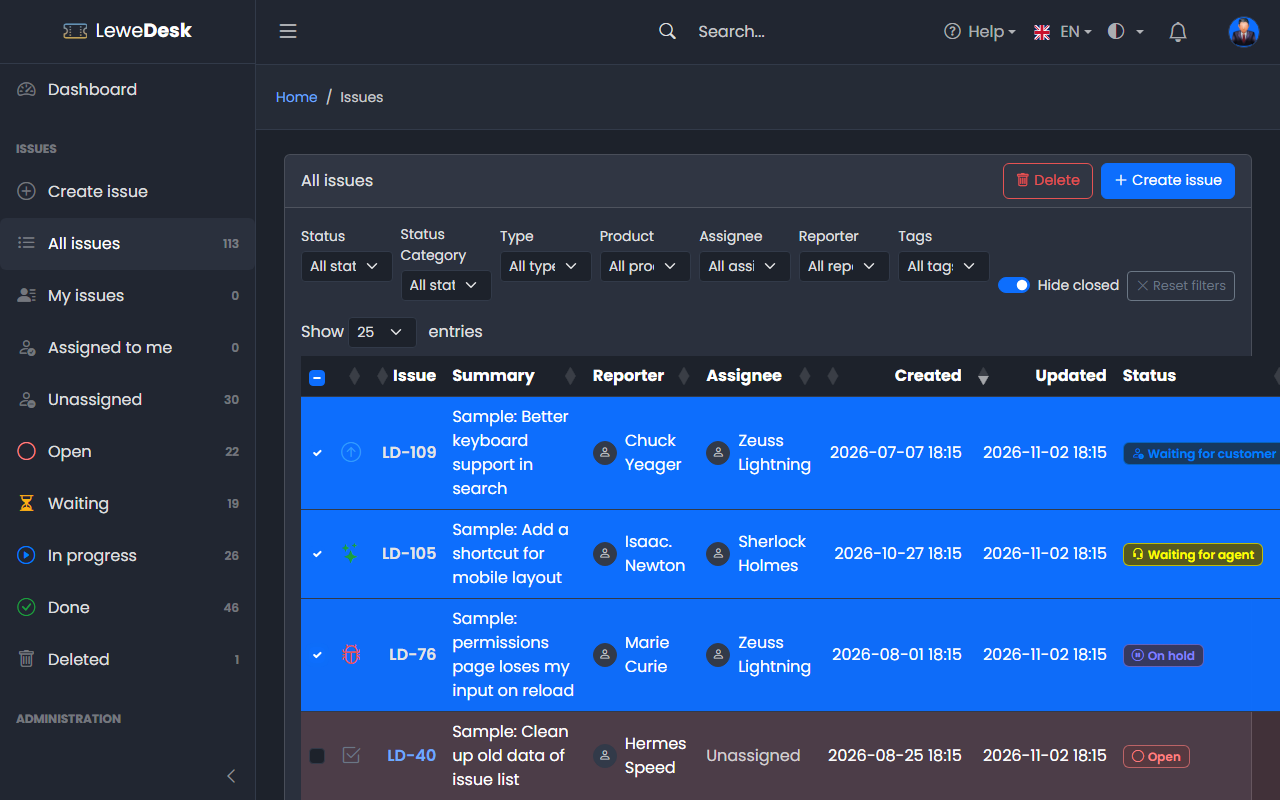
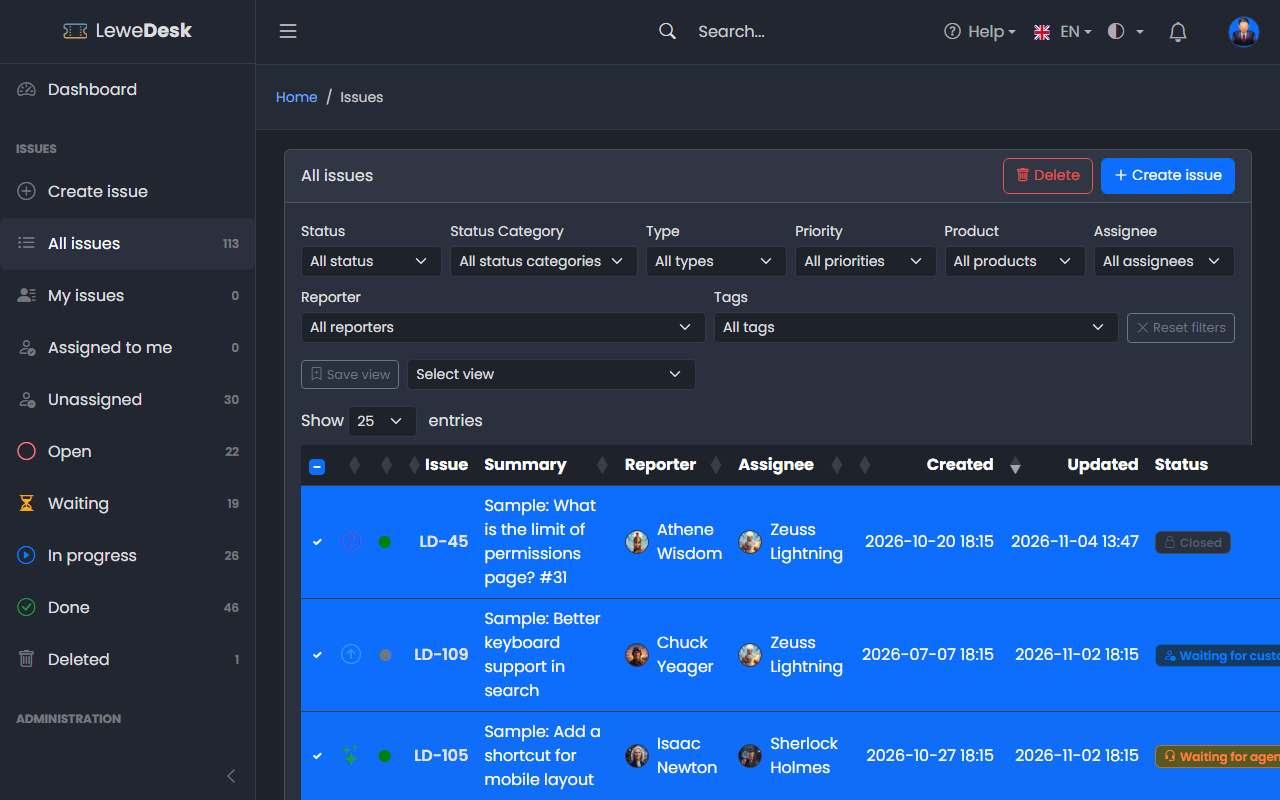
Add priorities feature

diff --git a/user-guide/issues/list-issues.md b/user-guide/issues/list-issues.md
@@ -10,6 +10,7 @@ The issue list shows the issues you may see. Click an issue key to open the issu
 | -------- | ---------------------------------------------------------------- |
 | (checkbox) | Selects the issue for [bulk actions](#delete-or-restore-several-issues) (only for users who may delete issues) |
 | (icon)   | Icon of the issue type                                           |
+| (icon)   | Priority of the issue as a colored icon. Move the mouse over it to see the name. Click the column header to sort by priority (Critical first). |
 | Issue    | The issue key, e.g. LD-123                                     |
 | Summary  | Title of the issue                                               |
 | Reporter | Who created the issue                                            |
@@ -40,7 +41,7 @@ The sidebar offers quick views. The number shows how many issues the view holds.
 
 ## Filters
 
-Above the table you can narrow the list down by **Status**, **Status category**, **Type**, **Product**, **Assignee**, **Reporter** and **Tags**. Filters combine with the quick view. **Show entries** sets the page size.
+Above the table you can narrow the list down by **Status**, **Status category**, **Type**, **Priority**, **Product**, **Assignee**, **Reporter** and **Tags**. Filters combine with the quick view. **Show entries** sets the page size.
 
 The **Hide closed** switch is on by default and leaves out the issues with the status _Closed_, so that the list shows what still needs attention. Turn it off to see them as well. It has no effect when you choose a status in the **Status** filter.
 
@@ -56,14 +57,14 @@ Under the filters you find the **Save view** button and the **Select view** list
 
 ### Save a view
 
-1. Set the filters you want (**Status**, **Status category**, **Type**, **Product**, **Assignee**, **Reporter**, **Tags**).
+1. Set the filters you want (**Status**, **Status category**, **Type**, **Priority**, **Product**, **Assignee**, **Reporter**, **Tags**).
 2. Click **Save view**.
 3. Enter a **Name** (up to 100 characters). Switch on **Share with all registered users** if other users should be able to use the view as well. A view is private by default.
 4. Click **Save**.
 
 <figure><img src="../../.gitbook/assets/custom-view-save.png" alt=""><figcaption></figcaption></figure>
 
-A view stores these seven filters only. The quick view, the search term, the sort order and the page size are not part of it. You may save a view without any filter. It then shows all issues.
+A view stores these eight filters only. The quick view, the search term, the sort order and the page size are not part of it. You may save a view without any filter. It then shows all issues.
 
 If you already have a view with the same name (upper and lower case do not matter), LeweDesk asks whether you want to **overwrite** it with the current filters.
 

diff --git a/administration/issues/priorities.md b/administration/issues/priorities.md
@@ -1,0 +1,34 @@
+# Priorities
+
+<figure><img src="../../.gitbook/assets/priorities.png" alt=""><figcaption></figcaption></figure>
+
+A priority says how urgent an issue is. Every issue has exactly one priority. New issues start with _Normal_ (also the issues that are created by [email](../system/email-to-ticket.md)), and the support team can change it. Requires the permission `manage_priorities`.
+
+## System priorities
+
+| Name     | Description                                          |
+| -------- | ---------------------------------------------------- |
+| Critical | The issue blocks work and needs immediate attention  |
+| High     | The issue is important and should be handled soon    |
+| Normal   | The default priority of an issue                     |
+| Low      | The issue can wait                                   |
+
+All four are system records. They cannot be deleted, deactivated or renamed, but you can change their description, icon and colors. You can add your own priorities next to them.
+
+{% hint style="info" %}
+The issue list shows the **icon** of the priority in its color, not the name. Move the mouse over the icon to see the name. Choose the colors so that the priorities are easy to tell apart.
+{% endhint %}
+
+## Buttons
+
+| Button | Function                                                                                                    |
+| ------ | ----------------------------------------------------------------------------------------------------------- |
+| Add    | Opens the form to create a new priority                                                                     |
+| Edit   | Opens the Edit page for the selected priority                                                               |
+| Delete | Deletes the selected priorities. System priorities cannot be deleted. If issues use it, you select a replacement. |
+
+## Add and Edit Priority
+
+<figure><img src="../../.gitbook/assets/priority-edit.png" alt=""><figcaption></figcaption></figure>
+
+See [common fields](README.md#common-fields).

diff --git a/administration/issues/README.md b/administration/issues/README.md
@@ -6,6 +6,7 @@ These pages maintain the lists that structure your issues.
 | --------------------------------------- | --------------------------------------------------------------------------- |
 | [Custom Views](custom-views.md)         | Saved filter combinations of the issue list of all users                    |
 | [Issue Types](issue-types.md)           | What kind of issue it is (Bug, Feature, Question, ...)                      |
+| [Priorities](priorities.md)             | How urgent an issue is (Critical, High, Normal, Low)                        |
 | [Products](products.md)                 | The product an issue is about                                               |
 | [Status](status.md)                     | Where an issue is in its life                                               |
 | [Status Categories](status-categories.md) | Groups of status that drive the quick views                               |
@@ -14,7 +15,7 @@ These pages maintain the lists that structure your issues.
 
 ## System records
 
-Issue types, status, status categories and resolutions come with **system records** that the issue workflow depends on. A system record
+Issue types, status, status categories, resolutions and priorities come with **system records** that the issue workflow depends on. A system record
 
 * cannot be deleted or deactivated
 * has a locked name (the name is translated into the user's language)
@@ -39,4 +40,4 @@ Most of these forms share the following fields:
 
 ## Deleting records in use
 
-When you delete an issue type, status or resolution that issues still use, LeweDesk asks you to select a **replacement**. All affected issues get the replacement. When you delete a product or a tag, it is simply removed from the issues.
+When you delete an issue type, status, resolution or priority that issues still use, LeweDesk asks you to select a **replacement**. All affected issues get the replacement. When you delete a product or a tag, it is simply removed from the issues.

diff --git a/user-guide/issues/create-issue.md b/user-guide/issues/create-issue.md
@@ -9,6 +9,7 @@ Click **Create issue** in the sidebar. You need to be logged in.
 | Field       | Description                                                                                                                 |
 | ----------- | --------------------------------------------------------------------------------------------------------------------------- |
 | Type        | What kind of issue is it? Required.                                                                                         |
+| Priority    | How urgent is it? _Normal_ is preselected. The choices are _Critical_, _High_, _Normal_ and _Low_ (and any priorities your administrator added). |
 | Summary     | A short title in one line (up to 200 characters). Required.                                                                 |
 | Description | Describe the issue as precisely as you can: what happened, what did you expect, and how can we reproduce it? Required. Supports [Markdown](../markdown.md) and pasted images. |
 | Tags        | Optional. Type to search the existing tags. A tag that does not exist yet is created after you confirm.                    |

diff --git a/user-guide/issues/README.md b/user-guide/issues/README.md
@@ -11,6 +11,7 @@ Every issue has a key made of a prefix and a number, for example **LD-123**. The
 | Property    | Description                                                                                                 |
 | ----------- | ----------------------------------------------------------------------------------------------------------- |
 | Type        | Kind of issue, e.g. Bug or Question                                                                         |
+| Priority    | How urgent the issue is: Critical, High, Normal (default) or Low                                            |
 | Status      | Where the issue is in its life, e.g. Open or Resolved                                                       |
 | Resolution  | Why the issue is done. Empty until the issue is resolved.                                                   |
 | Summary     | One-line title                                                                                              |

diff --git a/administration/issues/custom-views.md b/administration/issues/custom-views.md
@@ -17,7 +17,7 @@ Custom views are saved filter combinations of the issue list (see [List Issues](
 
 | Button | Function                                                                                                  |
 | ------ | --------------------------------------------------------------------------------------------------------- |
-| Edit   | Opens the dialog with the name, the visibility and the seven filters. The owner of the view does not change. |
+| Edit   | Opens the dialog with the name, the visibility and the eight filters. The owner of the view does not change. |
 | Delete | Deletes the view after a confirmation                                                                     |
 
 If a filter value of the view does not exist anymore, the dialog leaves it out. The view is repaired when you click **Save**. Note that the assignee and reporter lists only contain users of issues you may see.

diff --git a/user-guide/issues/edit-issue.md b/user-guide/issues/edit-issue.md
@@ -9,6 +9,7 @@ The Edit page is for the support team (permission `edit_issue`). Open it with **
 | Field       | Description                                                                                   |
 | ----------- | --------------------------------------------------------------------------------------------- |
 | Type        | Kind of issue                                                                                 |
+| Priority    | How urgent the issue is. Required.                                                            |
 | Status      | The status can be set freely. A status of the category _Done_ needs a resolution.             |
 | Resolution  | Why the issue is done. Required for a status of the category _Done_.                          |
 | Assignee    | Only users with the role _Agent_ can be assigned                                              |

diff --git a/administration/system/permissions.md b/administration/system/permissions.md
@@ -55,6 +55,7 @@ A permission allows one specific thing. Each permission is granted to roles and/
 | `manage_status`            | Administrator | Manage status                                |
 | `manage_status_categories` | Administrator | Edit the status categories                   |
 | `manage_resolutions`       | Administrator | Manage resolutions                           |
+| `manage_priorities`        | Administrator | Manage priorities                            |
 | `manage_products`          | Administrator | Manage products                              |
 | `manage_tags`              | Administrator | Edit and delete tags                         |
 | `manage_custom_views`      | Administrator | Open the [Custom Views](../issues/custom-views.md) page and edit or delete the custom views of all users. Users manage their own views without a permission. |

diff --git a/user-guide/profile.md b/user-guide/profile.md
@@ -44,7 +44,7 @@ Lists the [custom views](issues/list-issues.md#custom-views) you saved in the is
 
 | Button | Function                                                                                              |
 | ------ | ----------------------------------------------------------------------------------------------------- |
-| Edit   | Opens a dialog with the name, the **Share with all registered users** switch and the seven filters     |
+| Edit   | Opens a dialog with the name, the **Share with all registered users** switch and the eight filters     |
 | Delete | Deletes the view after a confirmation. It disappears for all users it was shared with.                |
 
 <figure><img src="../.gitbook/assets/custom-view-edit.png" alt=""><figcaption></figcaption></figure>

diff --git a/user-guide/issues/issue-detail.md b/user-guide/issues/issue-detail.md
@@ -28,7 +28,7 @@ A collapsible table of all changes. See [History](history.md).
 
 ## Properties
 
-The panel on the right shows type, status, resolution, product, version, access, reporter, assignee, tags, watchers, and the dates created and updated. The product is shown with its icon in the color of the product.
+The panel on the right shows type, priority, status, resolution, product, version, access, reporter, assignee, tags, watchers, and the dates created and updated. The product is shown with its icon in the color of the product.
 
 <figure><img src="../../.gitbook/assets/issue-properties.png" alt=""><figcaption></figcaption></figure>
 

diff --git a/user-guide/issues/history.md b/user-guide/issues/history.md
@@ -19,6 +19,6 @@ Click the sort icon to switch between newest first and oldest first.
 ## What is recorded
 
 * creating, deleting and restoring the issue
-* changes to type, status, resolution, assignee, access, summary, description, product, version and tags
+* changes to type, priority, status, resolution, assignee, access, summary, description, product, version and tags
 * comments added, edited and deleted (internal comments are only visible to the support team)
 * attachments added and deleted

diff --git a/SUMMARY.md b/SUMMARY.md
@@ -19,6 +19,7 @@
   * [Issues](administration/issues/README.md)
     * [Custom Views](administration/issues/custom-views.md)
     * [Issue Types](administration/issues/issue-types.md)
+    * [Priorities](administration/issues/priorities.md)
     * [Products](administration/issues/products.md)
     * [Resolutions](administration/issues/resolutions.md)
     * [Status](administration/issues/status.md)
